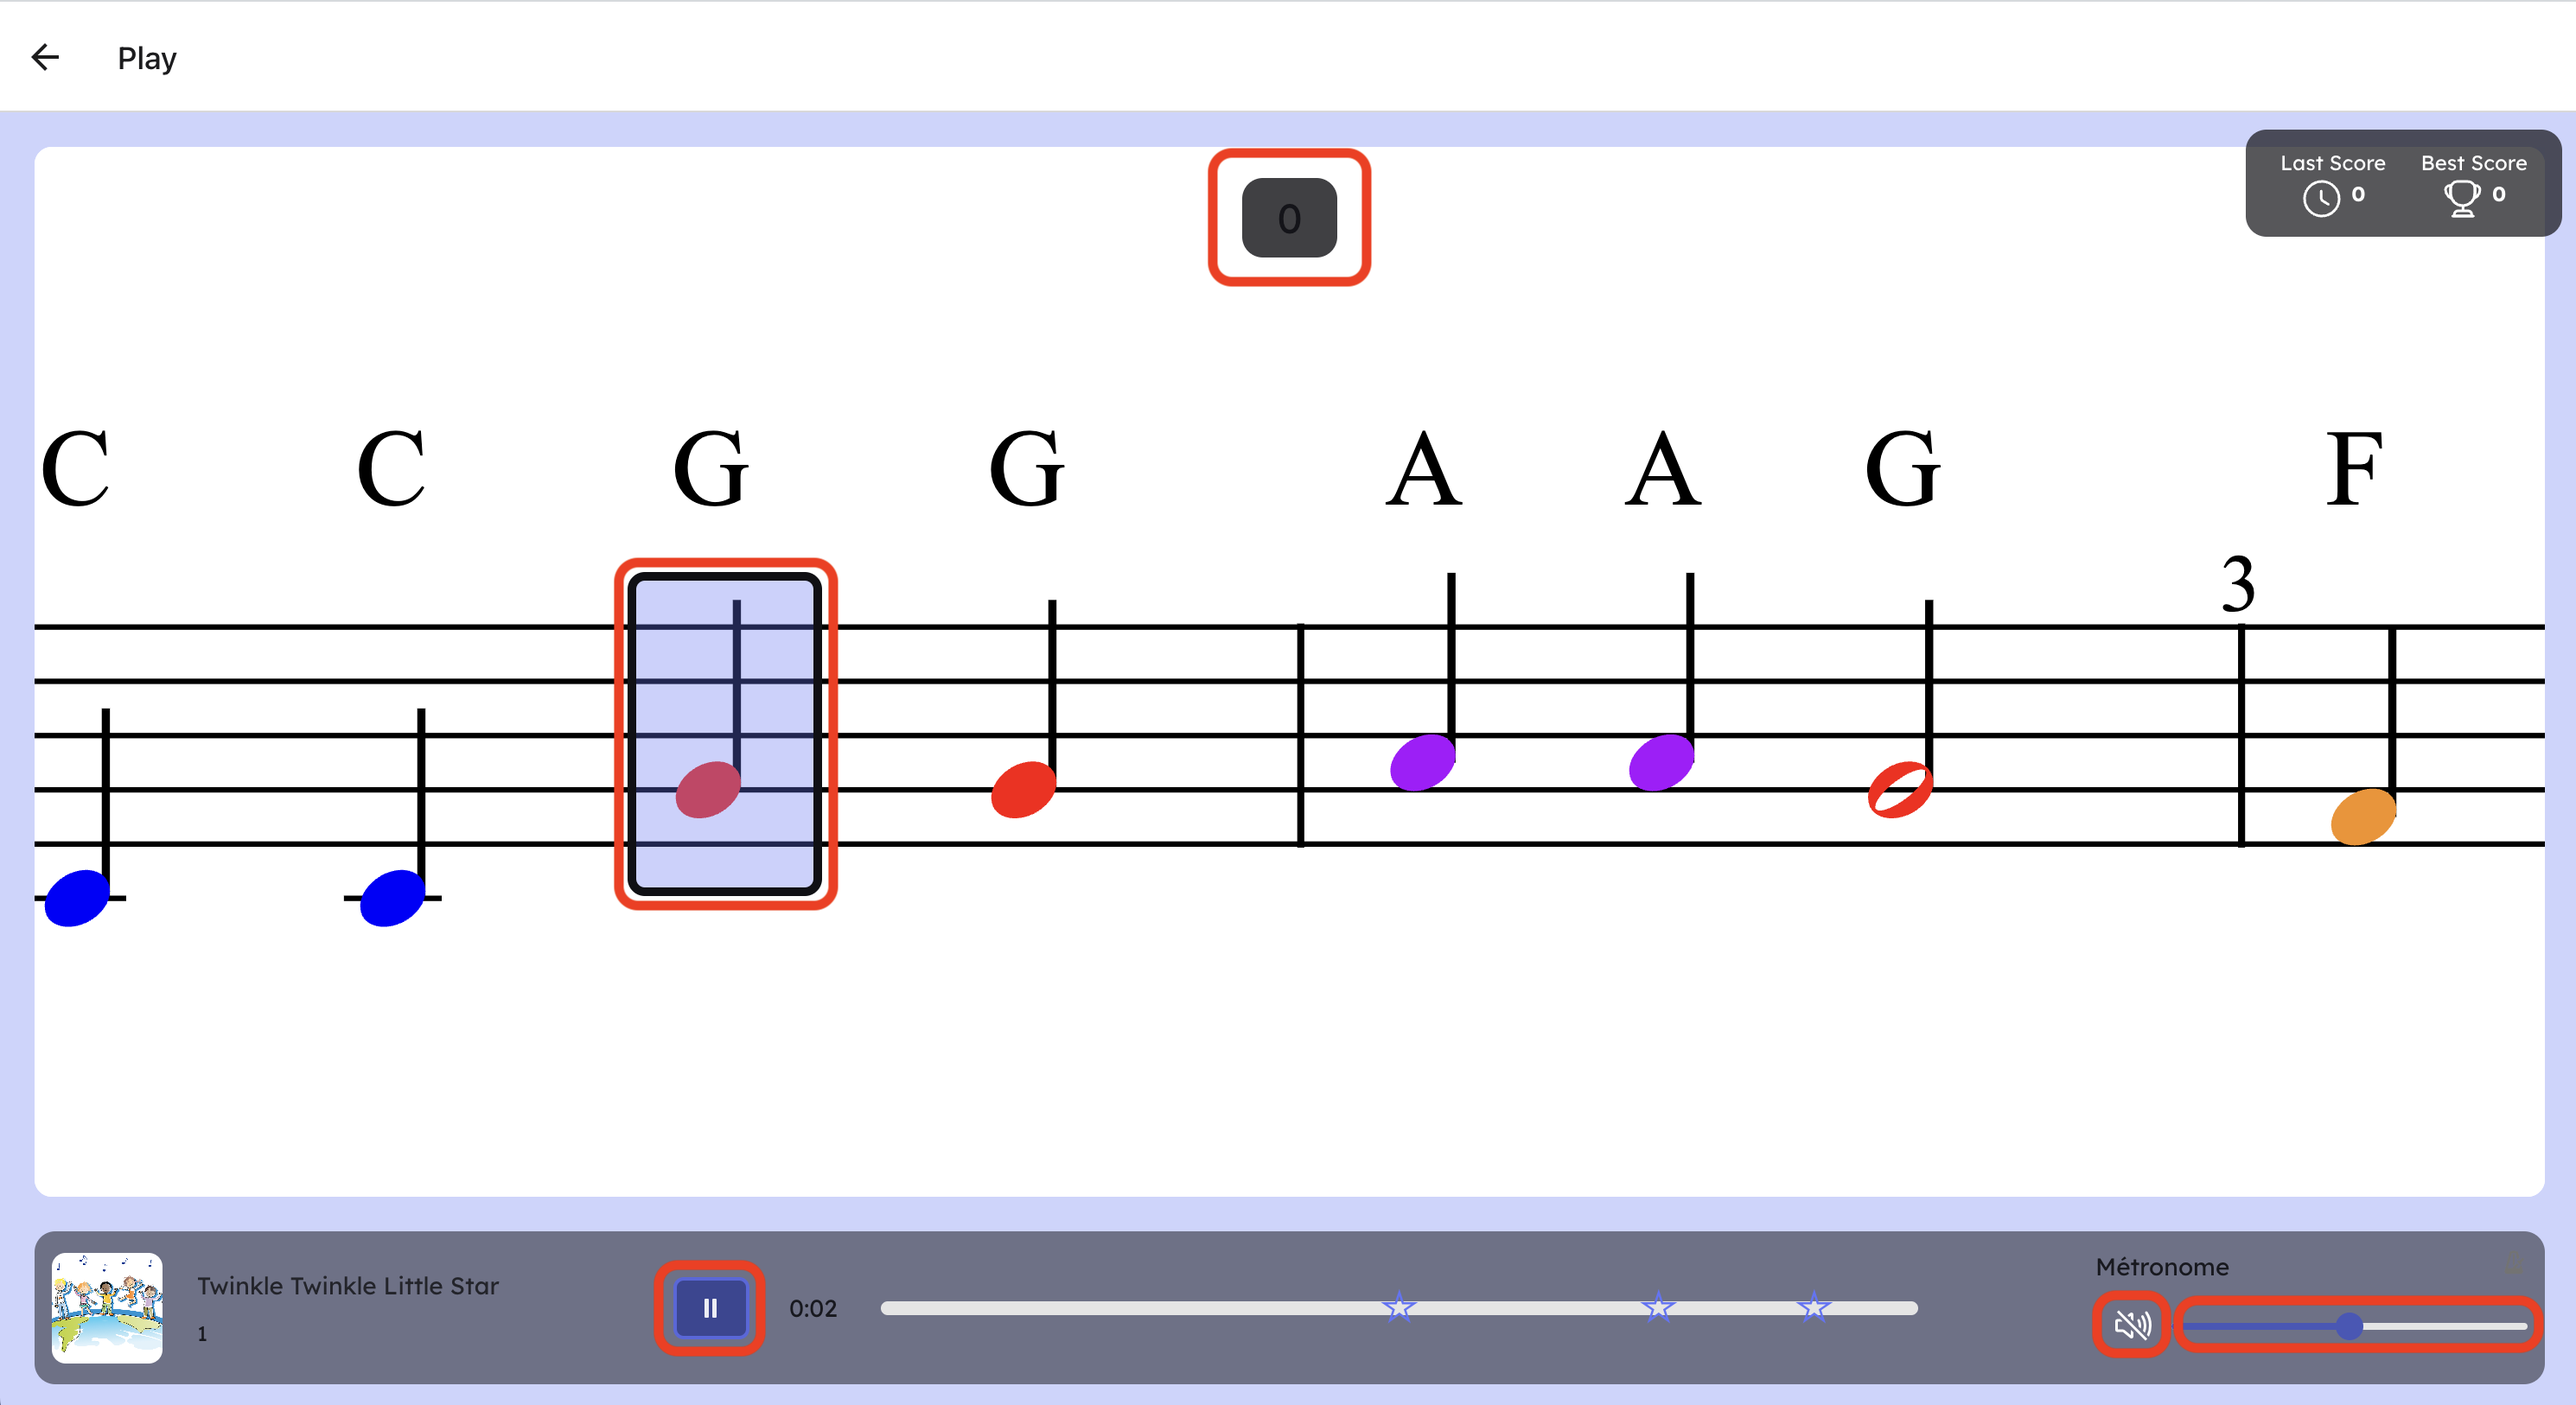
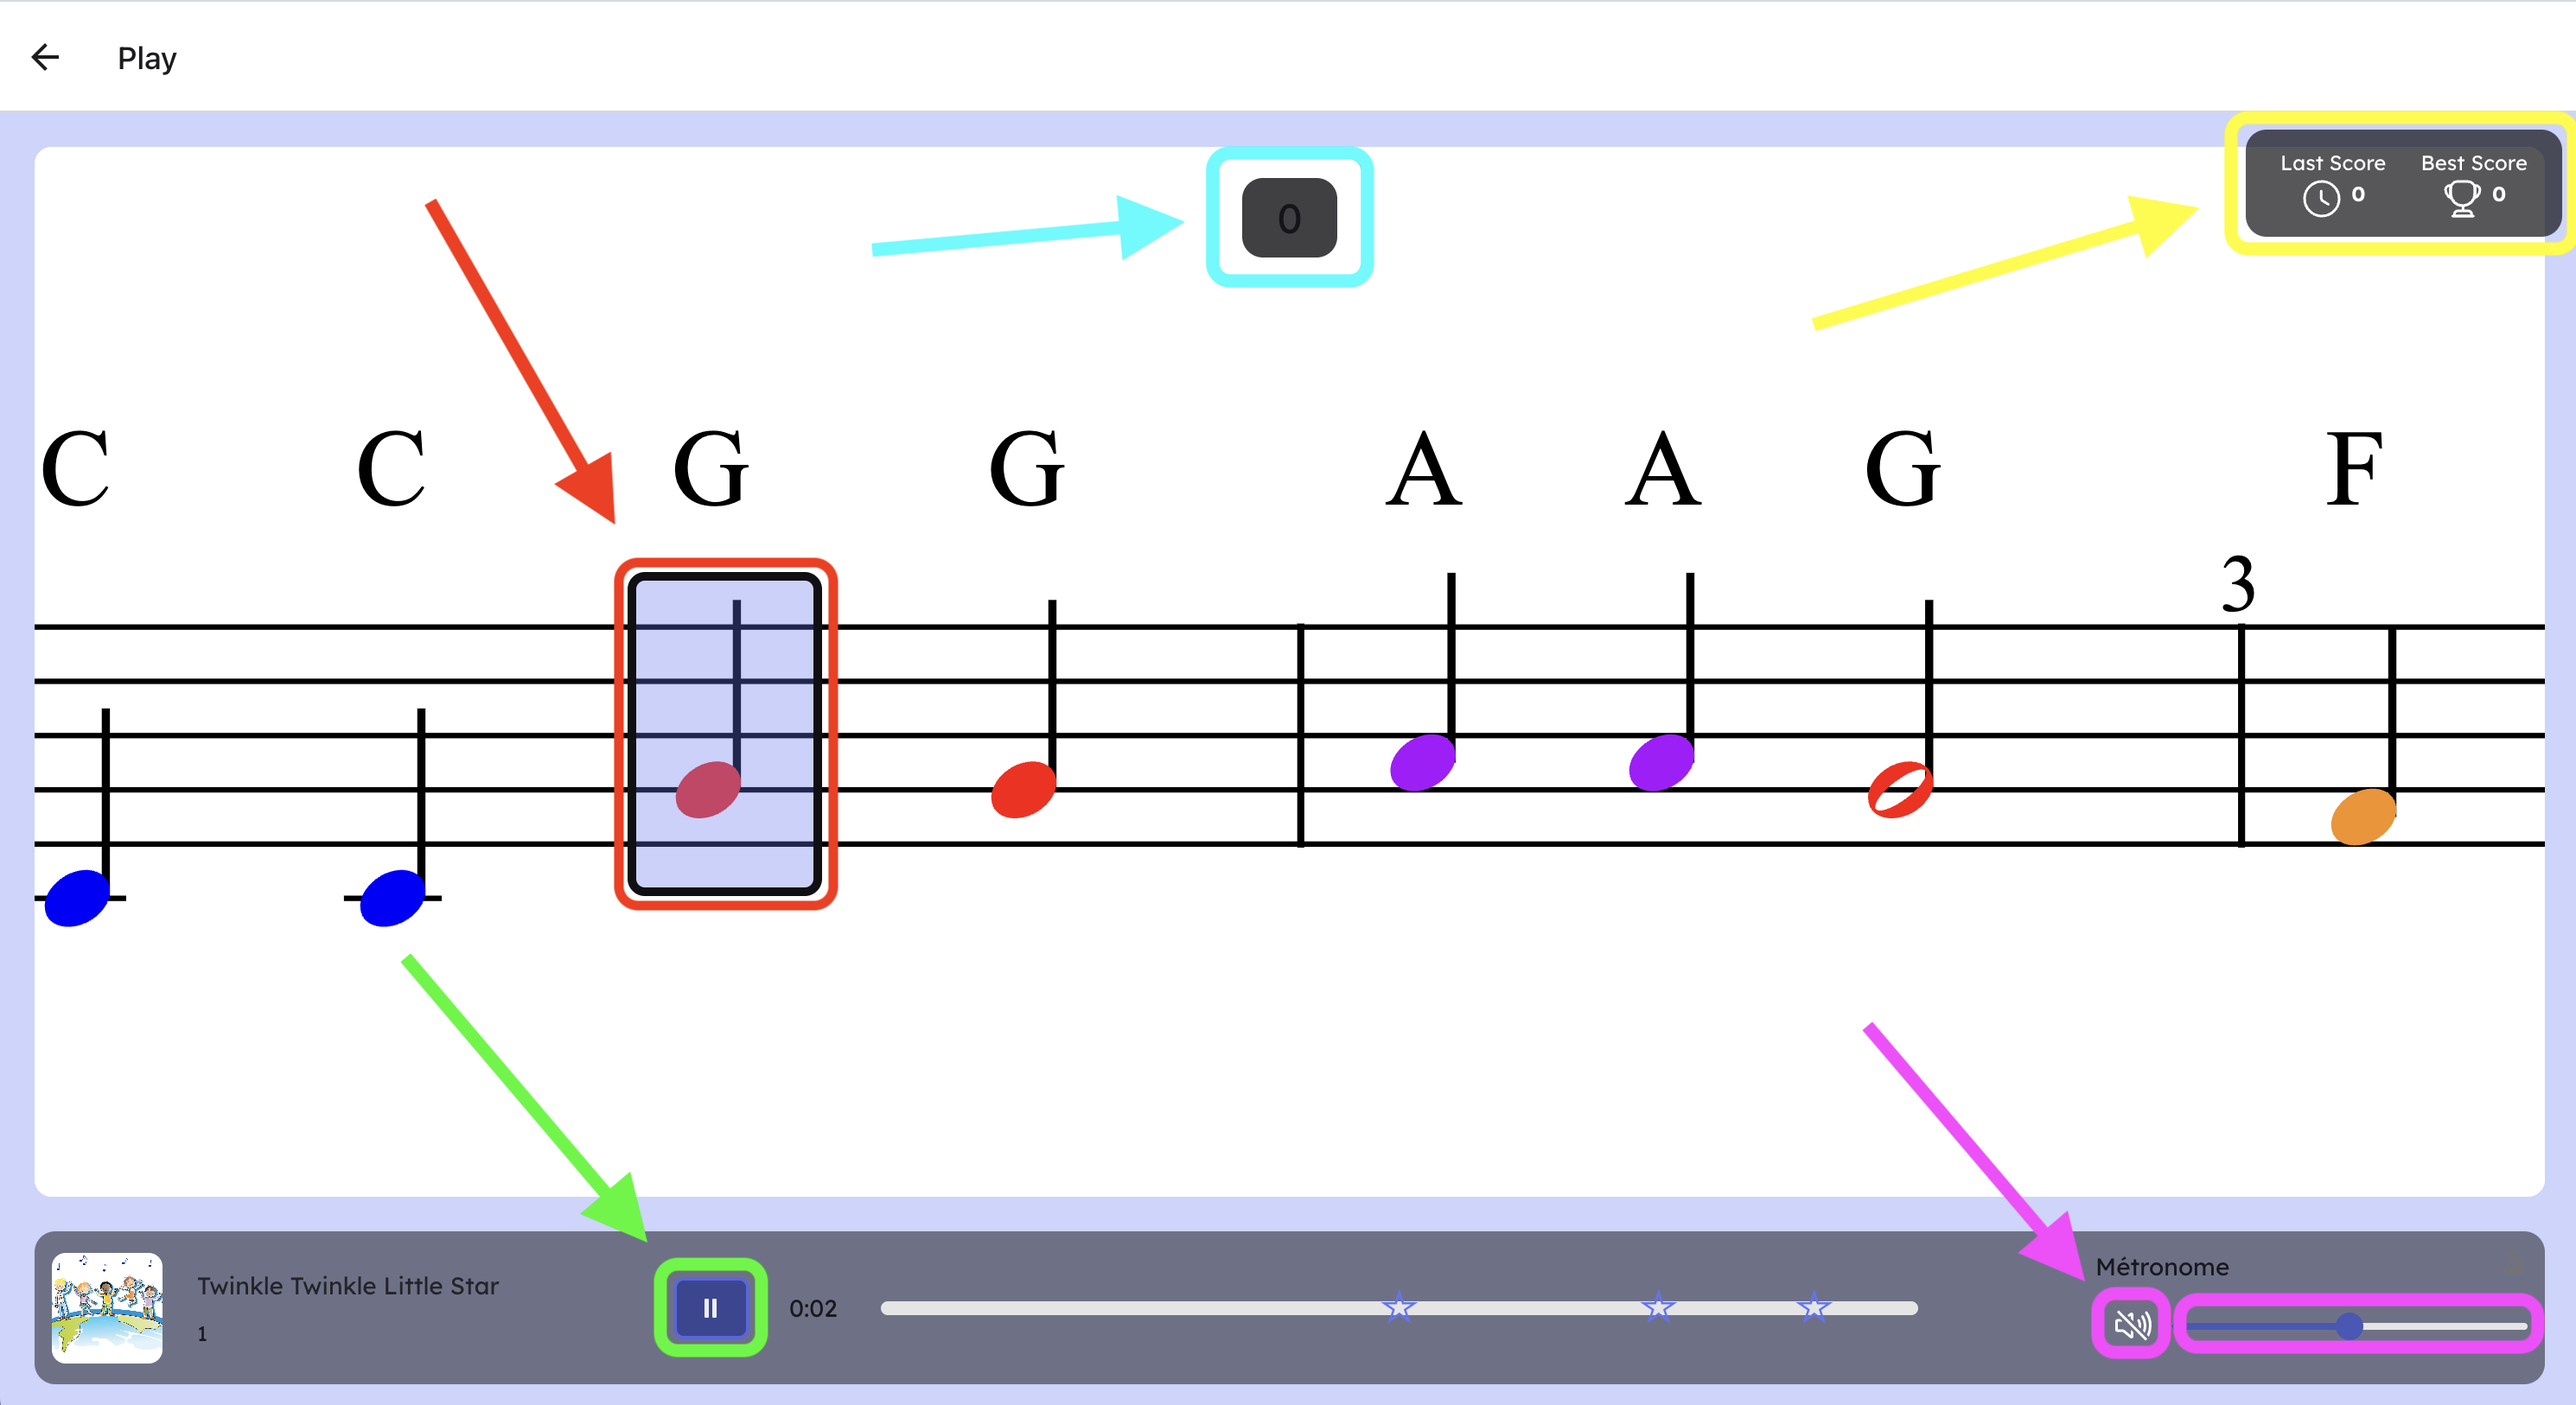
UD: Play: Add more arrows

diff --git a/user_documentation/guide/play/play.tex b/user_documentation/guide/play/play.tex
@@ -24,8 +24,8 @@ Pour lancer une partie, sélectionnez d’abord une chanson depuis votre page pe
 Vous arriverez sur une page de lobby, où vous pouvez choisir le mode de jeu :
 
 \begin{itemize}
-	\item[Play] Mode de jeu normal : jouez toutes les notes au bon moment, au bon rythme.
-	\item[Practice] Similaire au mode normal. Seul les notes sont importantes, pas le rythme.
+	\item[Play:] Mode de jeu normal. Jouez toutes les notes au bon moment, au bon rythme.
+	\item[Practice]: Similaire au mode normal. Seul les notes sont importantes, pas le rythme.
 \end{itemize}
 
 Avant de lancer la partie, assurez-vous que votre piano MIDI soit connecté.
@@ -37,13 +37,15 @@ Cliquez sur l'un des boutons pour jouer (Voir Capture \ref{fig:choose-play-mode}
 	\label{fig:choose-play-mode}
 \end{figure}
 
-Pour lancer la partie, cliquez sur le bouton Play. Un compte à rebours de 3 secondes sera lancé. Lorsque celui-ci sera écoulé, la partie commencera et la partition défilera.
-
-À tout moment, vous pouvez mettre la partie en pause avec le bouton Play/Pause dans la partie inférieure gauche de l'écran (Voir Capture \ref{fig:play}).
-
-Le bouton "Métronome" en bas à droite vous permettent d'activer / désactiver le métronome, ainsi que de régler son volume (Voir Capture \ref{fig:play}).
-
-Les notes sous le curseur sont les notes à jouer. Si vous jouez les notes correctement, le nombre de points gagnés augmentera.
+Une fois sur la page de jeu, vous pouvez retrouver votre meilleur score et dernier score sur cette chanson (Voir Capture \ref{fig:play}, Flèche jaune)..
+\\
+Pour lancer la partie, cliquez sur le bouton Play (Voir Capture \ref{fig:play}, Flèche verte). Un compte à rebours de 3 secondes sera lancé. Lorsque celui-ci sera écoulé, la partie commencera et la partition défilera.
+\\
+À tout moment, vous pouvez mettre la partie en pause avec le bouton Play/Pause dans la partie inférieure gauche de l'écran (Voir Capture \ref{fig:play}, Flèche verte).
+\\
+Le bouton "Métronome" en bas à droite vous permettent d'activer / désactiver le métronome, ainsi que de régler son volume (Voir Capture \ref{fig:play}, Flèche violette).
+\\
+Les notes sous le curseur (Voir Capture \ref{fig:play}, Flèche rouge) sont les notes à jouer. Si vous jouez les notes correctement, le nombre de points gagnés augmentera (Voir Capture \ref{fig:play}, Flèche bleue).
 
 \begin{figure}[H]
 	\includegraphics[width=\linewidth]{../\dir/guide/play/play.png}
@@ -51,8 +53,6 @@ Les notes sous le curseur sont les notes à jouer. Si vous jouez les notes corre
 	\label{fig:play}
 \end{figure}
 
-Vous pouvez faire pause à tout moment en cliquant sur le bouton pause. Vous pouvez stopper la partie en cliquant sur le bouton Stop.
-\\\\
 Une fois la partie terminée, vous pourrez avoir un aperçu de votre score (Voir Capture \ref{fig:score}).
 
 \begin{figure}[H]
